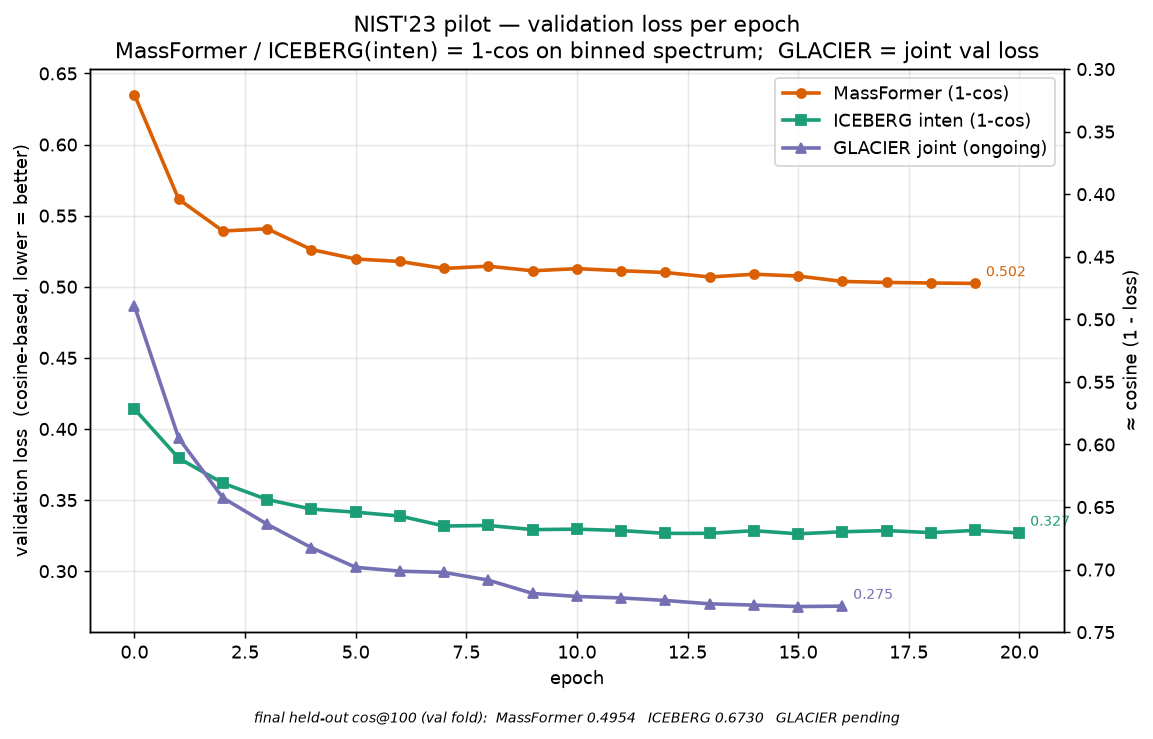
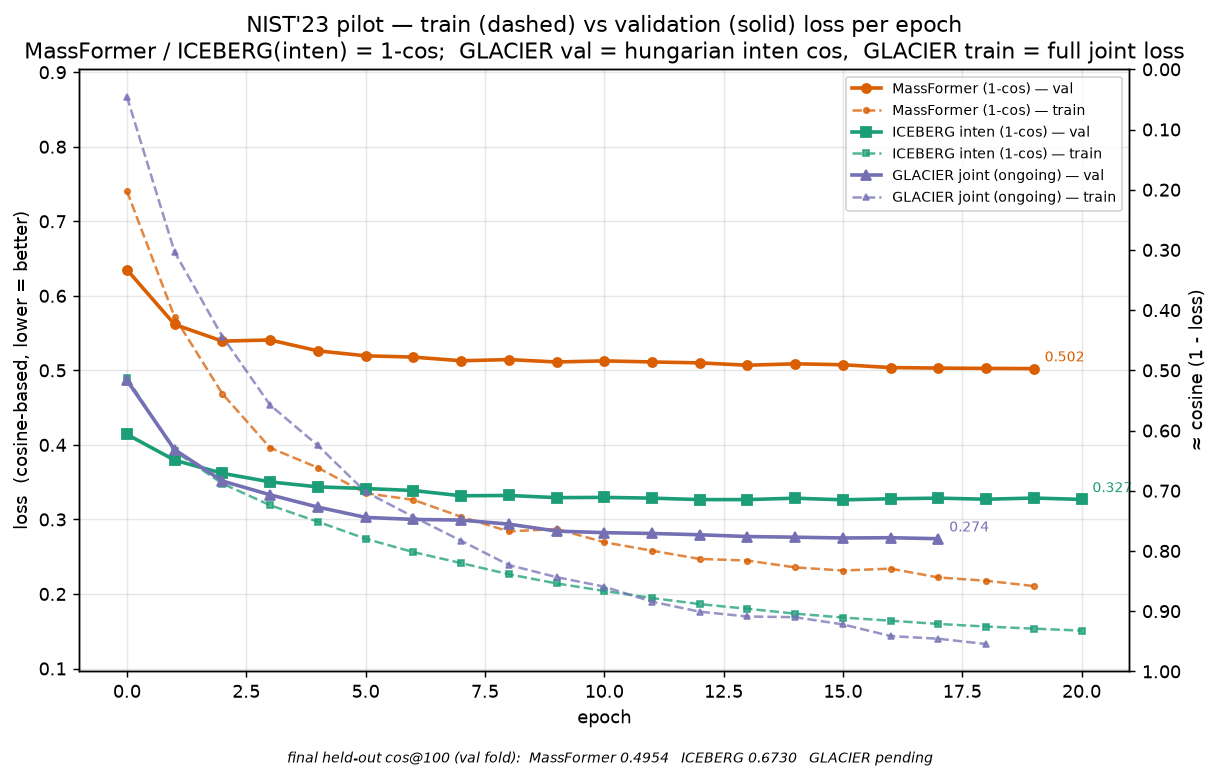
pilot: add train loss to the loss-curve figure (train dashed / val solid)
- plot_loss_curves.py now extracts per-epoch train loss too: "train_loss" (per step,
  averaged per epoch; MassFormer/GLACIER) or "train_loss_epoch" (ICEBERG inten), and
  plots train dashed vs val solid, one colour per model.
- pilot_val_loss.tsv gains a `split` column (train/val); reader stays back-compatible.
- README updated; notes the generalization gap and that GLACIER train is the full joint
  objective while its val is the hungarian intensity cos (not like-for-like).
Snapshot: GLACIER still training (val through epoch 17); refresh when it finishes.

diff --git a/run_scripts/nist23_benchmark/pilot/plot_loss_curves.py b/run_scripts/nist23_benchmark/pilot/plot_loss_curves.py
@@ -1,23 +1,31 @@
 #!/usr/bin/env python
-"""Plot per-epoch validation-loss curves for the NIST'23 pilot models.
+"""Plot per-epoch train/validation loss curves for the NIST'23 pilot models.
 
 Two modes:
   # replot from the committed data file (default)
   python plot_loss_curves.py
 
-  # re-extract val_loss from the training stdout logs, refresh the TSV, then replot
+  # re-extract from the training stdout logs, refresh the TSV, then replot
   python plot_loss_curves.py --logs /path/to/logdir
-      # expects <logdir>/{massformer,iceberg,glacier}_pilot.log containing lines like
-      #   "... Epoch 7, step 53695-- val_loss : 0.2991..."
+      # expects <logdir>/{massformer,iceberg,glacier}_pilot.log
 
-Data file `pilot_val_loss.tsv` (model, epoch, val_loss) is small and version-controlled
-so the figure is reproducible without the multi-MB training logs. All three spectrum
-losses are cosine-based (1-cos); GLACIER's is the joint (intensity + fragment) val loss,
-so the curves are directionally comparable, not identical objectives. ICEBERG is the
-stage-2 (inten) loss; its stage-1 (gen) BCE is a different scale and not shown.
+Losses are parsed from the training stdout:
+  val   : "Epoch N, step M-- val_loss : X"                       (per epoch)
+  train : "Epoch N, step M-- train_loss : X"                     (per step; averaged per epoch)
+          or "train_loss_epoch : X"                              (per epoch; ICEBERG inten)
+
+`pilot_val_loss.tsv` (model, epoch, split, loss) is small and version-controlled so the
+figure reproduces without the multi-MB logs.
+
+Caveats: MassFormer / ICEBERG(inten) losses are 1-cos on the binned spectrum, so the
+right axis (1-loss) tracks the held-out cos@100. GLACIER's *val* loss is the hungarian
+intensity cos loss, but its *train* loss is the full joint objective (intensity + 0.1*frag,
+magma-blended) — a different quantity, so GLACIER train and val are not the same scale.
+ICEBERG shows only the stage-2 (inten) losses.
 """
 import argparse
 import re
+from collections import defaultdict
 from pathlib import Path
 
 import matplotlib
@@ -34,63 +42,103 @@ MODELS = {
     "ICEBERG inten (1-cos)":   ("iceberg_pilot.log",    "#1b9e77", "s"),
     "GLACIER joint (ongoing)": ("glacier_pilot.log",    "#7570b3", "^"),
 }
-# final held-out cos@100 (val fold, 4,971 specs); None = not finished yet
 FINAL_COS = {"MassFormer (1-cos)": 0.4954, "ICEBERG inten (1-cos)": 0.6730,
              "GLACIER joint (ongoing)": None}
 
-_PAT = re.compile(r"Epoch (\d+), step \d+-- val_loss : ([0-9.]+)")
+_VAL = re.compile(r"Epoch (\d+), step \d+-- val_loss : ([0-9.]+)")
+_TRAIN_STEP = re.compile(r"Epoch (\d+), step \d+-- train_loss : ([0-9.]+)")
+_TRAIN_EPOCH_PREF = re.compile(r"Epoch (\d+), step \d+-- train_loss_epoch : ([0-9.]+)")
+_TRAIN_EPOCH_BARE = re.compile(r"train_loss_epoch : ([0-9.]+)")
 
 
 def extract_from_logs(logdir: Path) -> dict:
-    """label -> {epoch: val_loss} parsed from the training stdout logs."""
-    series = {}
+    """label -> {'val': {ep: loss}, 'train': {ep: loss}}."""
+    out = {}
     for label, (basename, _c, _m) in MODELS.items():
         path = logdir / basename
-        seen = {}
+        val, train_step = {}, defaultdict(list)
+        train_epoch_pref, train_epoch_bare = {}, []
         if path.exists():
             for line in open(path, errors="ignore"):
-                for ep, vl in _PAT.findall(line):
-                    seen[int(ep)] = float(vl)  # last write per epoch wins
-        series[label] = seen
-    return series
+                if "val_loss :" in line:
+                    for ep, x in _VAL.findall(line):
+                        val[int(ep)] = float(x)
+                if "train_loss :" in line:
+                    for ep, x in _TRAIN_STEP.findall(line):
+                        train_step[int(ep)].append(float(x))
+                if "train_loss_epoch :" in line:
+                    m = _TRAIN_EPOCH_PREF.findall(line)
+                    if m:
+                        for ep, x in m:
+                            train_epoch_pref[int(ep)] = float(x)
+                    else:
+                        for x in _TRAIN_EPOCH_BARE.findall(line):
+                            train_epoch_bare.append(float(x))
+        # resolve one train value per epoch
+        if train_epoch_pref:
+            train = train_epoch_pref
+        elif train_step:
+            train = {ep: sum(v) / len(v) for ep, v in train_step.items()}
+        elif train_epoch_bare and val:
+            eps = sorted(val)
+            n = min(len(eps), len(train_epoch_bare))
+            train = {eps[i]: train_epoch_bare[i] for i in range(n)}
+        else:
+            train = {}
+        out[label] = {"val": val, "train": train}
+    return out
 
 
 def write_tsv(series: dict, tsv: Path):
     with open(tsv, "w") as fp:
-        fp.write("model\tepoch\tval_loss\n")
-        for label, seen in series.items():
-            for ep in sorted(seen):
-                fp.write(f"{label}\t{ep}\t{seen[ep]:.6f}\n")
+        fp.write("model\tepoch\tsplit\tloss\n")
+        for label, d in series.items():
+            for split in ("train", "val"):
+                for ep in sorted(d.get(split, {})):
+                    fp.write(f"{label}\t{ep}\t{split}\t{d[split][ep]:.6f}\n")
 
 
 def read_tsv(tsv: Path) -> dict:
-    series = {label: {} for label in MODELS}
+    series = {label: {"train": {}, "val": {}} for label in MODELS}
     with open(tsv) as fp:
-        next(fp)
+        header = next(fp).rstrip("\n").split("\t")
         for line in fp:
-            label, ep, vl = line.rstrip("\n").split("\t")
-            series.setdefault(label, {})[int(ep)] = float(vl)
+            row = line.rstrip("\n").split("\t")
+            if len(row) == 4:  # model, epoch, split, loss
+                label, ep, split, loss = row
+            else:              # legacy: model, epoch, val_loss
+                label, ep, loss = row
+                split = "val"
+            series.setdefault(label, {"train": {}, "val": {}})[split][int(ep)] = float(loss)
     return series
 
 
 def plot(series: dict, png: Path):
-    fig, ax = plt.subplots(figsize=(9, 5.5))
+    fig, ax = plt.subplots(figsize=(9.5, 5.8))
     for label, (_basename, color, marker) in MODELS.items():
-        seen = series.get(label, {})
-        if not seen:
-            continue
-        xs = sorted(seen)
-        ys = [seen[e] for e in xs]
-        ax.plot(xs, ys, marker=marker, color=color, label=label, linewidth=2, markersize=5)
-        ax.annotate(f"{ys[-1]:.3f}", (xs[-1], ys[-1]), textcoords="offset points",
-                    xytext=(6, 4), fontsize=8, color=color)
+        d = series.get(label, {})
+        val = d.get("val", {})
+        train = d.get("train", {})
+        if val:
+            xs = sorted(val)
+            ys = [val[e] for e in xs]
+            ax.plot(xs, ys, marker=marker, color=color, linewidth=2, markersize=5,
+                    label=f"{label} — val")
+            ax.annotate(f"{ys[-1]:.3f}", (xs[-1], ys[-1]), textcoords="offset points",
+                        xytext=(6, 4), fontsize=8, color=color)
+        if train:
+            xs = sorted(train)
+            ys = [train[e] for e in xs]
+            ax.plot(xs, ys, marker=marker, color=color, linewidth=1.4, markersize=3,
+                    linestyle="--", alpha=0.75, label=f"{label} — train")
 
     ax.set_xlabel("epoch")
-    ax.set_ylabel("validation loss  (cosine-based, lower = better)")
-    ax.set_title("NIST'23 pilot — validation loss per epoch\n"
-                 "MassFormer / ICEBERG(inten) = 1-cos on binned spectrum;  GLACIER = joint val loss")
+    ax.set_ylabel("loss  (cosine-based, lower = better)")
+    ax.set_title("NIST'23 pilot — train (dashed) vs validation (solid) loss per epoch\n"
+                 "MassFormer / ICEBERG(inten) = 1-cos;  GLACIER val = hungarian inten cos,  "
+                 "GLACIER train = full joint loss")
     ax.grid(True, alpha=0.3)
-    ax.legend(loc="upper right")
+    ax.legend(loc="upper right", fontsize=8, ncol=1)
 
     ax2 = ax.twinx()
     ax2.set_ylim(ax.get_ylim())

diff --git a/run_scripts/nist23_benchmark/pilot/README.md b/run_scripts/nist23_benchmark/pilot/README.md
@@ -80,14 +80,19 @@ ICEBERG 0.722 / MassFormer 0.512) are a different set and not directly comparabl
 
 ## Training curves
 
-Per-epoch validation loss (all cosine-based, lower = better):
+Per-epoch **train (dashed) vs validation (solid)** loss, one colour per model
+(cosine-based, lower = better):
 
-![pilot validation-loss curves](pilot_loss_curves.png)
+![pilot train/val loss curves](pilot_loss_curves.png)
 
-- Data: `pilot_val_loss.tsv` (small, version-controlled). Figure: `plot_loss_curves.py`.
-- Regenerate the figure from the TSV: `python plot_loss_curves.py`
+- Data: `pilot_val_loss.tsv` (small, version-controlled; columns `model, epoch, split, loss`).
+  Figure: `plot_loss_curves.py`.
+- Regenerate from the TSV: `python plot_loss_curves.py`
   Re-extract from training stdout logs: `python plot_loss_curves.py --logs <dir-with-{model}_pilot.log>`
 - MassFormer / ICEBERG(inten) losses are `1-cos` on the binned spectrum, so the right axis
-  (`1-loss`) tracks the held-out cos@100 closely (MassFormer 0.502→0.4954, ICEBERG 0.327→0.6730).
-  GLACIER's curve is the joint (intensity + fragment) val loss and, in this snapshot, is still
-  training — refresh after it finishes.
+  (`1-loss`) tracks the held-out cos@100 closely (val: MassFormer 0.502→0.4954, ICEBERG 0.327→0.6730).
+- The train–val gap is the generalization gap (train < val): MassFormer 0.21 vs 0.50, ICEBERG
+  0.15 vs 0.33. **GLACIER's train loss is the full joint objective** (intensity + 0.1·fragment,
+  magma-blended) while its **val loss is the hungarian intensity cos** — different quantities, so
+  GLACIER's train/val gap is not a like-for-like generalization gap. GLACIER is still training in
+  this snapshot — refresh after it finishes.
